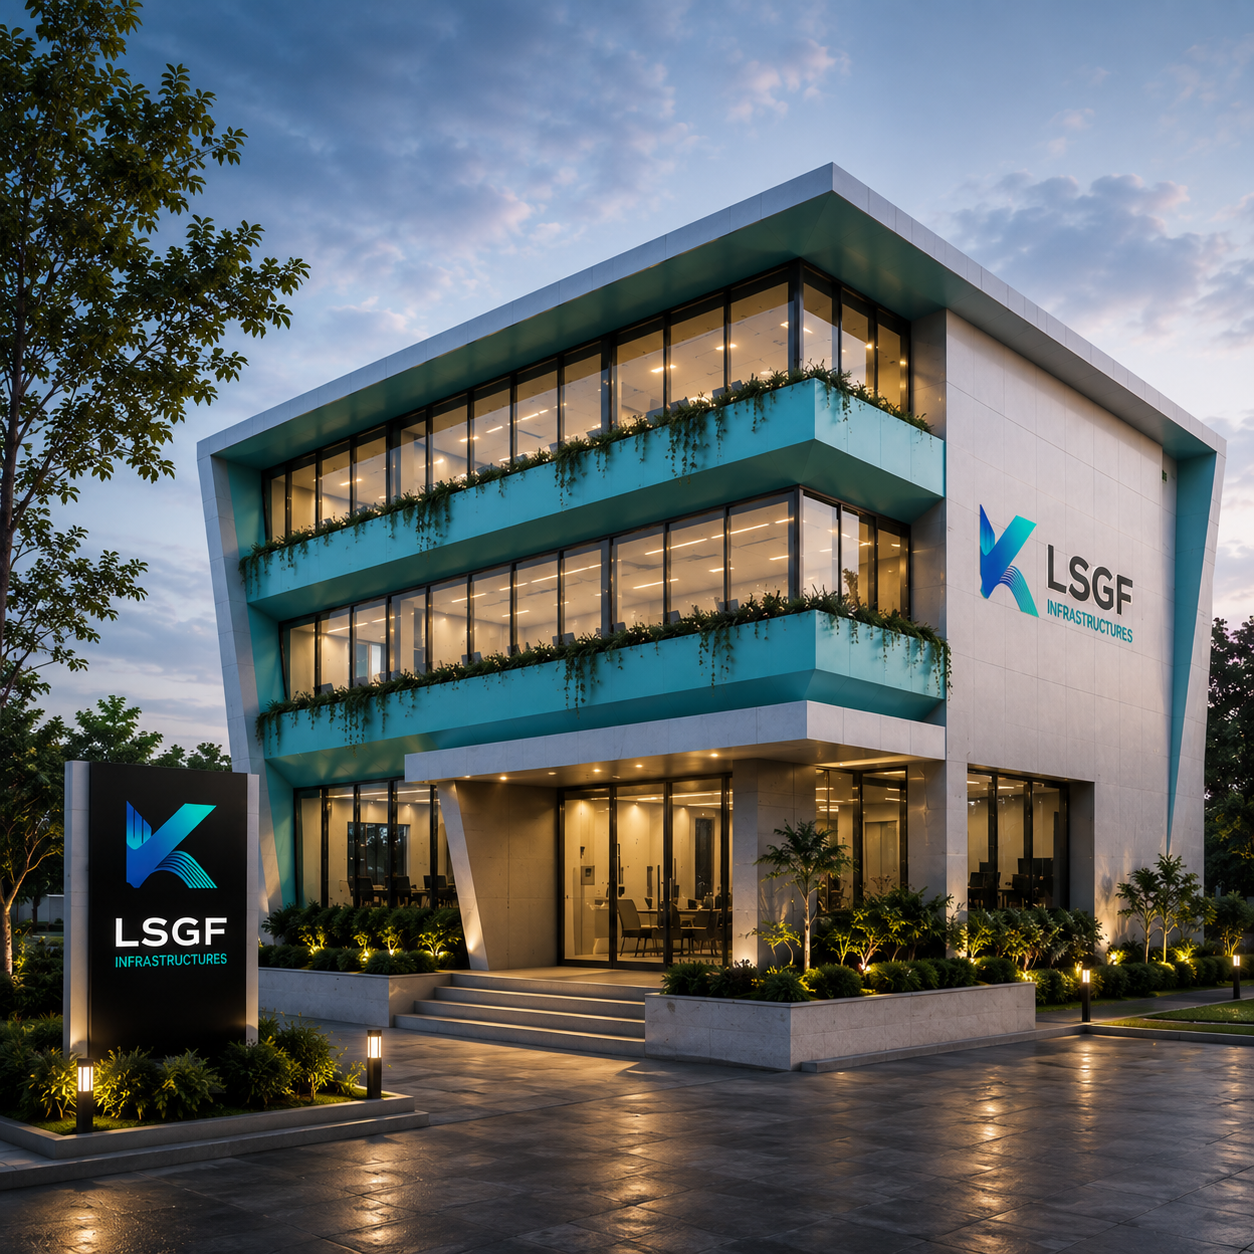
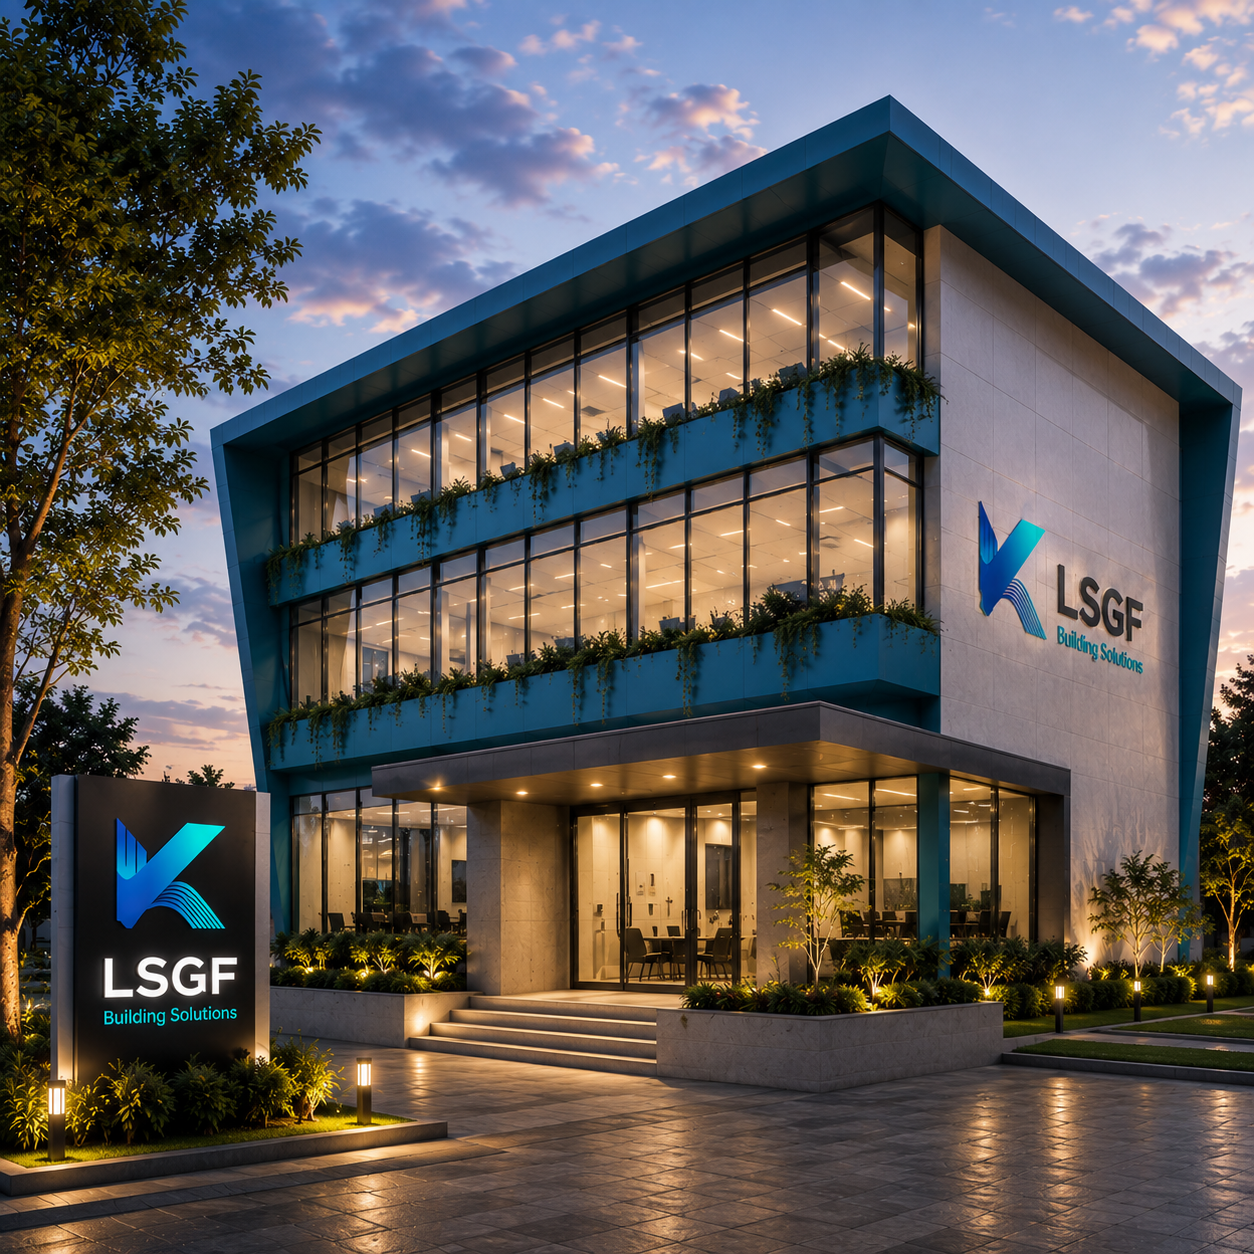
images & names modified

diff --git a/index.html b/index.html
@@ -2415,26 +2415,32 @@
           <article class="project reveal">
             <div class="project-image" style="background-image:url('modular_acc_2.png')">
             </div>
+
             <div class="project-number">05</div>
+
             <div class="project-content">
-              <small>HOUSING</small>
-              <h3>Modular Accommodation</h3>
-              <p>Scalable accommodation systems designed for practical living requirements.</p>
-              <div class="project-foot"><span>HOUSING / MODULAR</span><b>EXPLORE ↗</b></div>
+              <small>MODULAR CONSTRUCTION</small>
+              <h3>Advanced Modular Solutions</h3>
+              <p>Precision-engineered modular spaces designed for faster delivery, lasting quality, and modern living.
+              </p>
+
+              <div class="project-foot">
+                <span>MODULAR / INNOVATION</span>
+                <b>EXPLORE ↗</b>
+              </div>
             </div>
           </article>
 
           <article class="project reveal">
-            <div class="project-image" style="background-image:url('lsgf_infra.png')">
-            </div>
+            <div class="project-image" style="background-image:url('lsgf_infra.png')"> </div>
             <div class="project-number">06</div>
-            <div class="project-content">
-              <small>INSTITUTIONAL</small>
-              <h3>LSGF Infrastructures</h3>
-              <p>Flexible facilities for education, training and institutional support.</p>
-              <div class="project-foot"><span>EDU / INSTITUTION</span><b>EXPLORE ↗</b></div>
+            <div class="project-content"> <small>BUILDING SOLUTIONS</small>
+              <h3>LSGF Building Solutions</h3>
+              <p>Advanced building systems delivering strength, speed, precision, and long-term performance.</p>
+              <div class="project-foot"> <span>LSGF / INFRASTRUCTURE</span> <b>EXPLORE ↗</b> </div>
             </div>
           </article>
+          
         </div>
       </div>
     </section>
@@ -2608,7 +2614,8 @@
             <h4><span>03</span> Contact</h4>
             <a href="mailto:info@kmsinfra.com">info@kmsinfra.com</a>
             <a href="tel:+910000000000">+91 00000 00000</a>
-            <a href="#contact">3F5 Third Floor, Main Block Metro Towers,<br>115, E.V.R. Periyar Salai, Poonamallee High Road,<br>Chennai - 600084, Tamil Nadu</a>
+            <a href="#contact">3F5 Third Floor, Main Block Metro Towers,<br>115, E.V.R. Periyar Salai, Poonamallee High
+              Road,<br>Chennai - 600084, Tamil Nadu</a>
           </div>
         </div>
       </div>
@@ -2674,7 +2681,7 @@
           <select id="enqType" name="project" required>
             <option value="" selected disabled>Select a requirement</option>
             <option>Prefab &amp; Pre-Engineered Buildings</option>
-            <option>Modular Accommodation</option>
+            <option>Modular Experiece Center</option>
             <option>Industrial / Institutional Buildings</option>
             <option>Residential Projects</option>
             <option>Other Enquiry</option>
